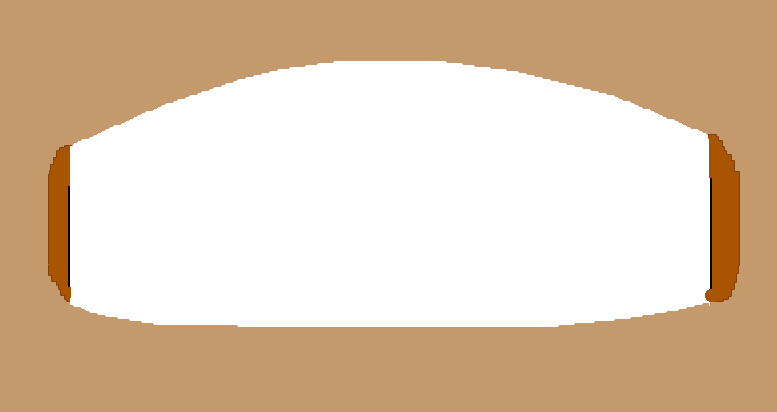
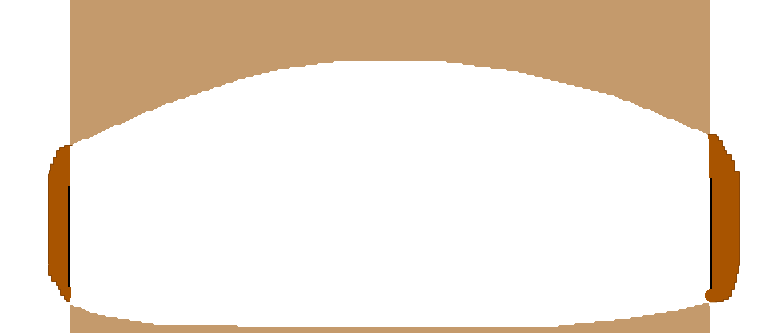
fixed the size of the overlay image

diff --git a/public/css/style.css b/public/css/style.css
@@ -341,7 +341,7 @@ h3 {
     overflow: hidden;
     position: absolute;
     width: 570px;
-    height: 412px;
+    height: 333px;
     right: 0px;
     top: 0px;
     z-index: 100;

diff --git a/public/css/style.scss b/public/css/style.scss
@@ -450,7 +450,7 @@ h3 {
     overflow:hidden;
     position: absolute;
     width: 570px;
-    height: 412px;
+    height: 333px;
     right: 0px;
     top: 0px;
     z-index: 100;
